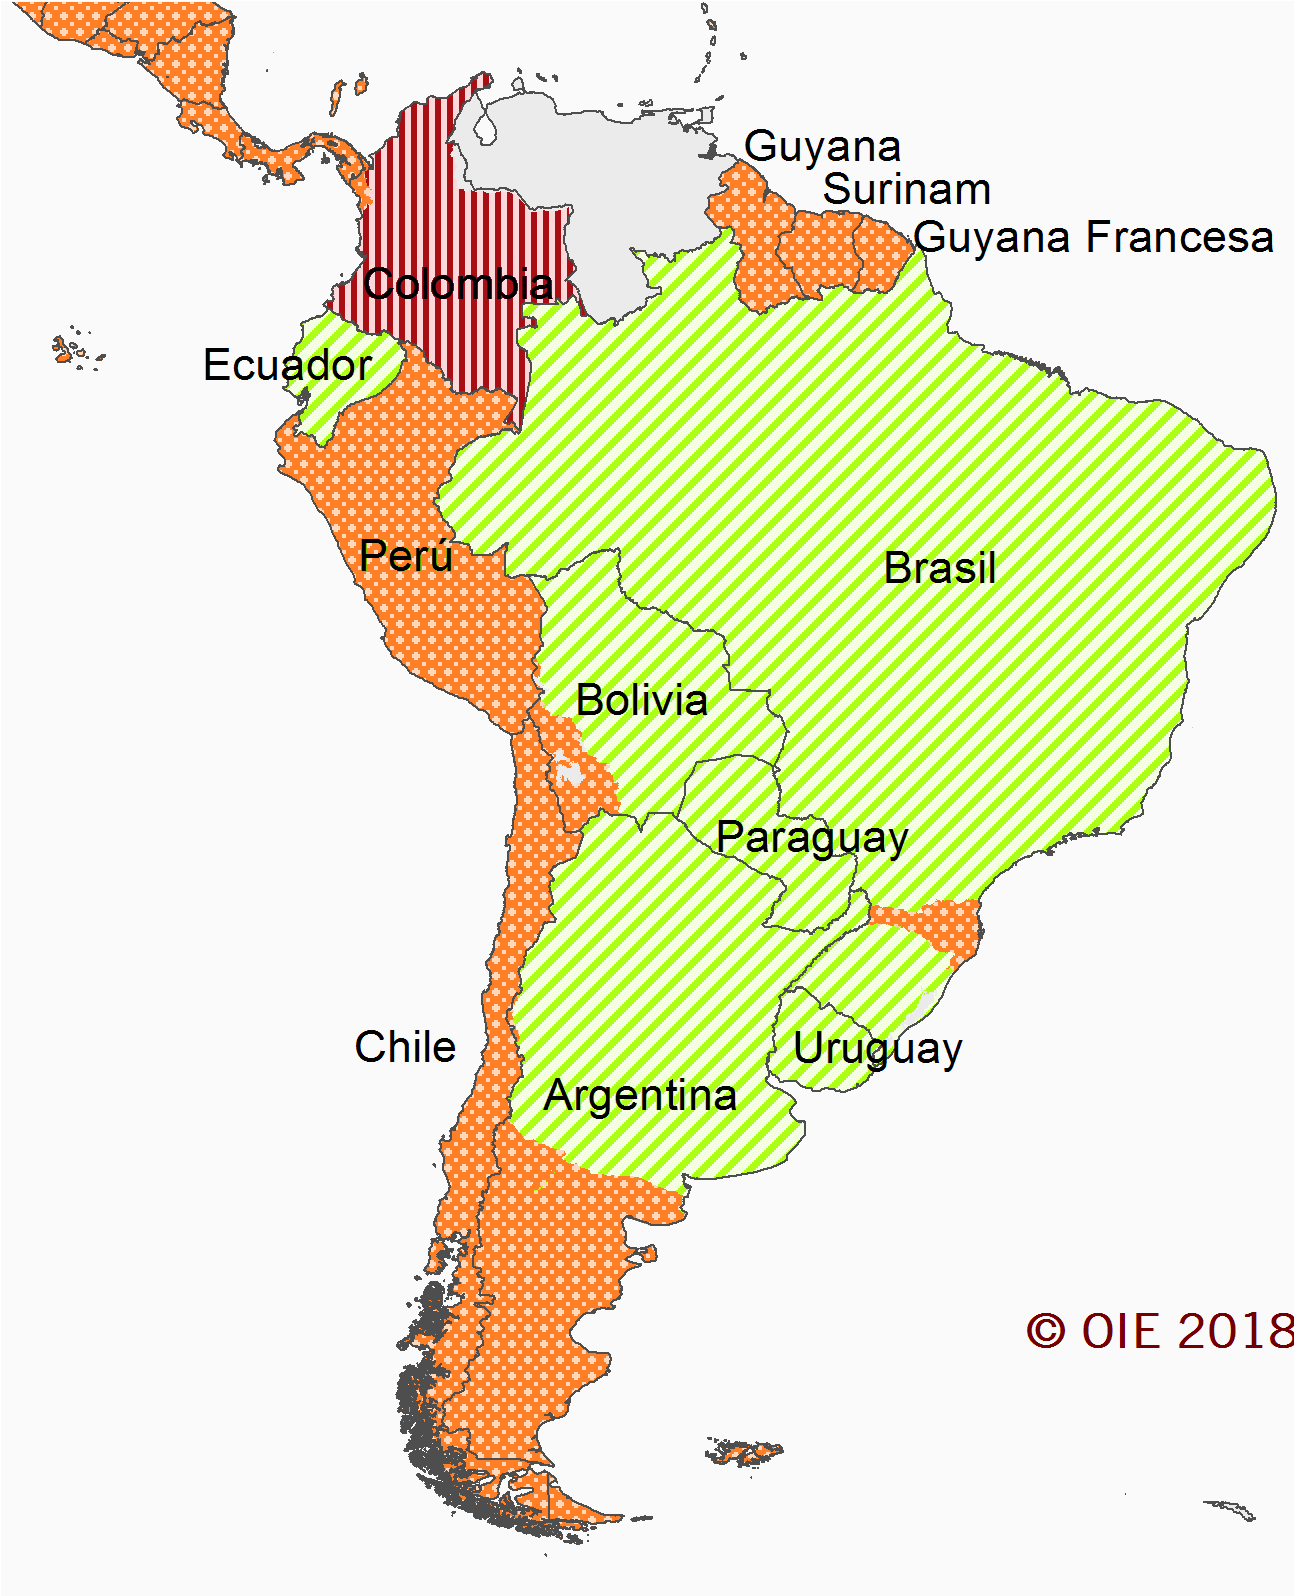
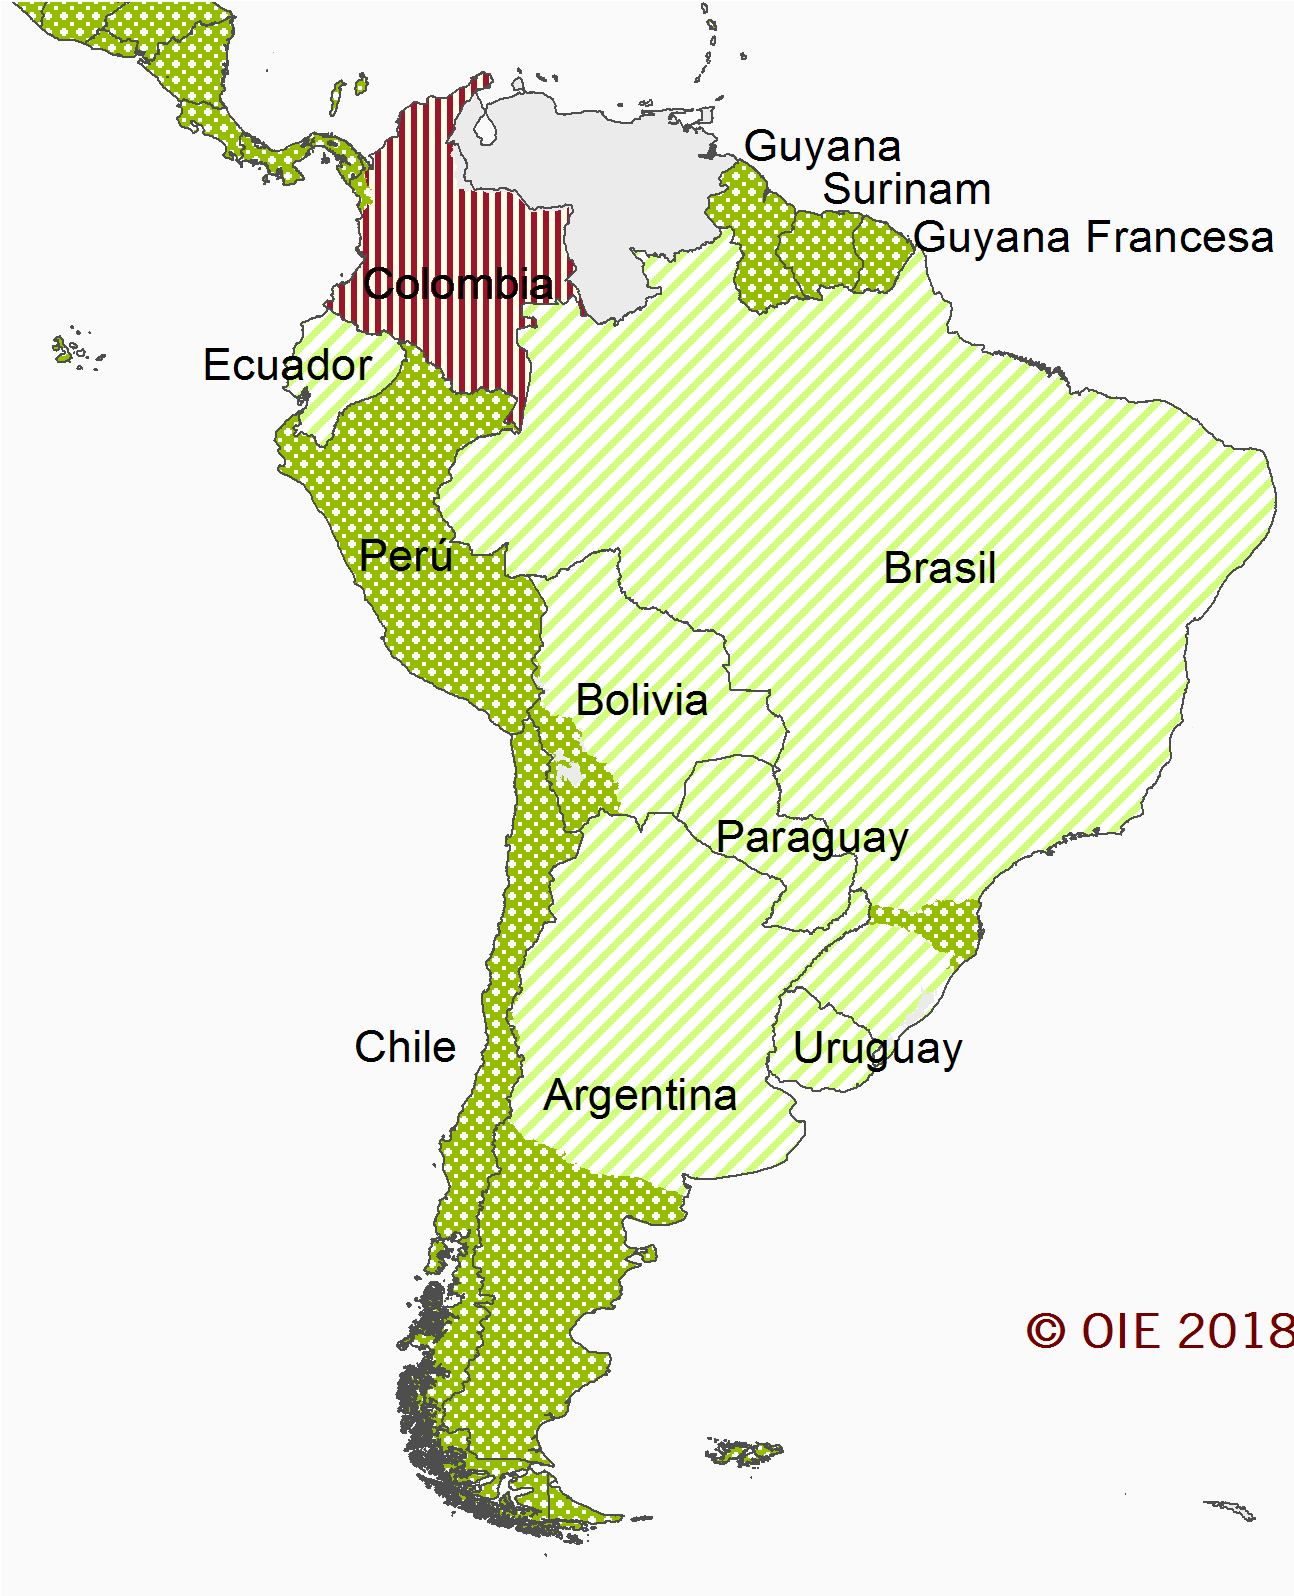
Improvements

diff --git a/src/main.rs b/src/main.rs
@@ -1,34 +1,15 @@
 extern crate image;
-use image::{ImageBuffer, Rgb};
 
+use image_manipulation::*;
 use std::error::Error;
 
-// TODO: check polyfloyd/edge-detection-rs repository on GitHub
 // TODO: test on Android
-
-fn calc_location(size_pattern: (u32, u32), location: (u32, u32)) -> (u32, u32) {
-    if location.0 < size_pattern.0 && location.1 < size_pattern.1 {
-        return location;
-    }
-
-    (
-        location.0 - size_pattern.0 * (location.0 / size_pattern.0),
-        location.1 - size_pattern.1 * (location.1 / size_pattern.1),
-    )
-}
-
-fn draw_pattern(
-    pixel: &mut (u32, u32, &mut image::Rgb<u8>),
-    pattern: &ImageBuffer<Rgb<u8>, Vec<u8>>,
-) {
-    let loc = calc_location((pattern.width(), pattern.height()), (pixel.0, pixel.1));
-    *pixel.2 = *pattern.get_pixel(loc.0, loc.1);
-}
 
 fn main() -> Result<(), Box<dyn Error>> {
     let dyn_img = image::open("image.png")?;
-    let mut img = dyn_img.to_rgb();
-    let img_luma = dyn_img.to_luma();
+    let img = dyn_img.to_rgb();
+    let mut output = img.clone();
+    // let img_luma = dyn_img.to_luma();
 
     let patterns = vec![
         image::open("patterns/0.png")?.to_rgb(),
@@ -44,20 +25,19 @@ fn main() -> Result<(), Box<dyn Error>> {
 
     // Processing
 
-    let edges = imageproc::edges::canny(&img_luma, 10.0, 50.0);
-    //let color_edges = imageproc::map::map_colors(&edges, |p| if p[0] > 0 { white } else { black });
-
-    edges.save("edges.png")?;
-
-    for mut pixel in img.enumerate_pixels_mut() {
+    for pixel in img.enumerate_pixels() {
         for (i, color) in colors.iter().enumerate() {
-            if pixel.2 == color {
-                draw_pattern(&mut pixel, &patterns[i]);
+            if color_in_range(*pixel.2, *color, 1) {
+                draw_pattern(
+                    &mut (pixel.0, pixel.1, output.get_pixel_mut(pixel.0, pixel.1)),
+                    &patterns[i],
+                    *color,
+                );
             }
         }
     }
 
-    img.save("output.png")?;
+    output.save("output.png")?;
 
     Ok(())
 }

diff --git a/src/lib.rs b/src/lib.rs
@@ -1,0 +1,54 @@
+extern crate image;
+use image::{ImageBuffer, Rgb};
+
+const BLACK: Rgb<u8> = Rgb([0, 0, 0]);
+
+pub fn calc_location(size_pattern: (u32, u32), location: (u32, u32)) -> (u32, u32) {
+    if location.0 < size_pattern.0 && location.1 < size_pattern.1 {
+        return location;
+    }
+
+    (
+        location.0 - size_pattern.0 * (location.0 / size_pattern.0),
+        location.1 - size_pattern.1 * (location.1 / size_pattern.1),
+    )
+}
+
+fn lighten(color: Rgb<u8>) -> Rgb<u8> {
+    Rgb([
+        add(color[0], 255 - color[0]),
+        add(color[1], 255 - color[1]),
+        add(color[1], 255 - color[2]),
+    ])
+}
+
+pub fn draw_pattern(
+    pixel: &mut (u32, u32, &mut image::Rgb<u8>),
+    pattern: &ImageBuffer<Rgb<u8>, Vec<u8>>,
+    color: Rgb<u8>,
+) {
+    let loc = calc_location((pattern.width(), pattern.height()), (pixel.0, pixel.1));
+    *pixel.2 = if *pattern.get_pixel(loc.0, loc.1) == BLACK {
+        color
+    } else {
+        lighten(color)
+    }
+}
+
+fn sub(lhs: u8, rhs: u8) -> u8 {
+    lhs.checked_sub(rhs).unwrap_or(0)
+}
+
+fn add(lhs: u8, rhs: u8) -> u8 {
+    lhs.checked_add(rhs).unwrap_or(255)
+}
+
+fn between(smaller: u8, val: u8, bigger: u8) -> bool {
+    smaller <= val && val <= bigger
+}
+
+pub fn color_in_range(query: Rgb<u8>, color: Rgb<u8>, threshold: u8) -> bool {
+    between(sub(query[0], threshold), color[0], add(query[0], threshold))
+        && between(sub(query[1], threshold), color[1], add(query[1], threshold))
+        && between(sub(query[2], threshold), color[2], add(query[2], threshold))
+}
